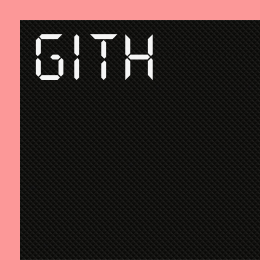
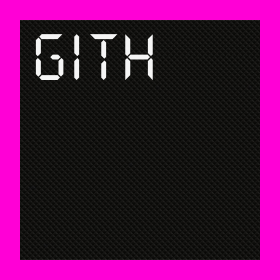
more color pad changes

Changed region(s): [[0.0, 0.0, 1.0, 1.0]]

diff --git a/css/style.css b/css/style.css
@@ -136,7 +136,7 @@ background-color: #010101;
         .pads{
             display: flex;
             position: absolute;
-            margin-top: 1.19%;
+            margin-top: 1.23%;
             margin-left: -5%;
             z-index: 1000;
         }
@@ -144,7 +144,7 @@ background-color: #010101;
         .morepads{
             display: flex;
             position: absolute; top: 85;
-            margin-top: 6.5%;
+            margin-top: 6.4%;
             margin-left: -5%;
             z-index: 1000;
         }
